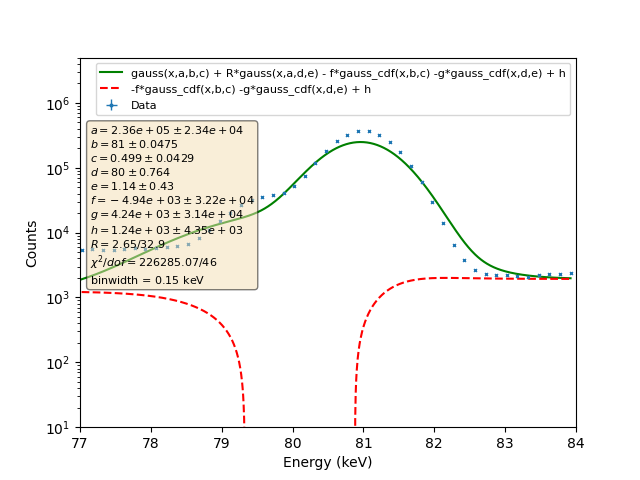
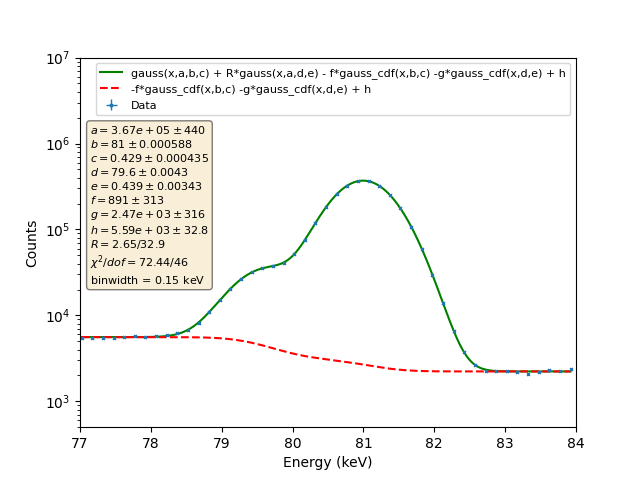
simulations updates

diff --git a/Ba133_analysis/simulations/IC-legend/macro/ba_top/PostProc/drawPostProcessed_FCCD.py b/Ba133_analysis/simulations/IC-legend/macro/ba_top/PostProc/drawPostProcessed_FCCD.py
@@ -45,13 +45,13 @@ def main():
     # plt.savefig("/lfs/l1/legend/users/aalexander/HADES_detchar/Ba133_analysis/simulations/IC-legend/macro/ba_top/PostProc/plots/"+MC_file_id+'_356keV.png')
 
     
-    xmin_356, xmax_356 = 350, 360 #362 #kev 
+    xmin_356, xmax_356 = 350, 360.5 #362 #360.5 for gammas #2 #360 #kev 
     plt.figure()
     counts, bins = get_histo_energies(MC_file, binwidth)
     popt, pcov, xfit = fit_peak_356_2("Energy (keV)", bins, counts, xmin_356, xmax_356)
     a,b,c,d,e = popt[0],popt[1],popt[2],popt[3],popt[4]
     plt.xlim(xmin_356, xmax_356) 
-    plt.ylim(10, 5*10**6)
+    plt.ylim(10, 10**7)
     plt.yscale("log")
     plt.savefig("/lfs/l1/legend/users/aalexander/HADES_detchar/Ba133_analysis/simulations/IC-legend/macro/ba_top/PostProc/plots/"+MC_file_id+'_356keV.png')
 
@@ -59,28 +59,41 @@ def main():
     print("gauss count 356keV: ", C_356, " +/- ", C_356_err )
 
 
-    # xmin_81, xmax_81 = 77, 84
-    # plt.figure()
-    # counts, bins = get_histo_energies(MC_file, binwidth)
-    # popt, pcov, xfit = fit_double_peak_81("Energy (keV)", bins, counts, xmin_81, xmax_81)
-    # a,b,c,d,e,f,g,h = popt[0],popt[1],popt[2],popt[3],popt[4],popt[5],popt[6],popt[7] 
-    # plt.xlim(xmin_81, xmax_81) 
-    # plt.ylim(10, 5*10**6)
-    # plt.yscale("log")
-    # plt.savefig("/lfs/l1/legend/users/aalexander/HADES_detchar/Ba133_analysis/simulations/IC-legend/macro/ba_top/PostProc/plots/"+MC_file_id+'_81keV.png')
+    xmin_81, xmax_81 = 77, 84
+    plt.figure()
+    counts, bins = get_histo_energies(MC_file, binwidth)
+    popt, pcov, xfit = fit_double_peak_81("Energy (keV)", bins, counts, xmin_81, xmax_81)
+    a,b,c,d,e,f,g,h = popt[0],popt[1],popt[2],popt[3],popt[4],popt[5],popt[6],popt[7] 
+    plt.xlim(xmin_81, xmax_81) 
+    plt.ylim(5*10**3, 10**7)
+    plt.yscale("log")
+    plt.savefig("/lfs/l1/legend/users/aalexander/HADES_detchar/Ba133_analysis/simulations/IC-legend/macro/ba_top/PostProc/plots/"+MC_file_id+'_81keV.png')
 
-    # R = 2.65/32.9
-    # C_81, C_81_err = gauss_count(a, c, np.sqrt(pcov[0][0]), np.sqrt(pcov[2][2]), binwidth)
-    # C_79, C_79_err = gauss_count(R*a, e, R*np.sqrt(pcov[0][0]), np.sqrt(pcov[4][4]), binwidth)
-    # print("gauss count 81: ", C_81, " +/- ", C_81_err )
-    # print("gauss count 79.6: ", C_79, " +/- ", C_79_err )
+    R = 2.65/32.9
+    C_81, C_81_err = gauss_count(a, c, np.sqrt(pcov[0][0]), np.sqrt(pcov[2][2]), binwidth)
+    C_79, C_79_err = gauss_count(R*a, e, R*np.sqrt(pcov[0][0]), np.sqrt(pcov[4][4]), binwidth)
+    print("gauss count 81: ", C_81, " +/- ", C_81_err )
+    print("gauss count 79.6: ", C_79, " +/- ", C_79_err )
 
-    # print("")
-    # O_Ba133 = (C_79 + C_81)/C_356
-    # O_Ba133_err = O_Ba133*np.sqrt((C_79_err**2 + C_81_err**2)/(C_79+C_81)**2 + (C_356_err/C_356)**2)
-    # print("O_BA133 = " , O_Ba133, " +/- ", O_Ba133_err)
+    print("")
+    O_Ba133 = (C_79 + C_81)/C_356
+    O_Ba133_err = O_Ba133*np.sqrt((C_79_err**2 + C_81_err**2)/(C_79+C_81)**2 + (C_356_err/C_356)**2)
+    print("O_BA133 = " , O_Ba133, " +/- ", O_Ba133_err)
 
 
+    #Save count values to json file
+    dlt_observables = {
+        "C_356": C_356,
+        "C_356_err" : C_356_err,
+        "C_81" : C_81,
+        "C_81_err" : C_81_err,
+        "C_79" : C_79,
+        "C_79_err" : C_79_err,
+        "O_Ba133" : O_Ba133,
+        "O_Ba133_err" : O_Ba133_err
+    }
+    with open("/lfs/l1/legend/users/aalexander/HADES_detchar/Ba133_analysis/simulations/IC-legend/macro/ba_top/PostProc/"+MC_file_id+"_dlt_observables.json", "w") as outfile: 
+        json.dump(dlt_observables, outfile)
 
 
     # #_____________PROCESS AND PLOT FCCDS_____________
@@ -96,7 +109,7 @@ def main():
     # # plt.savefig("/lfs/l1/legend/users/aalexander/HADES_detchar/Ba133_analysis/simulations/IC-legend/macro/ba_top/PostProc/plots/FCCDs2_"+MC_file_id+'.png')
 
 
-    plt.show() 
+    #plt.show() 
     
     print("done")
 
